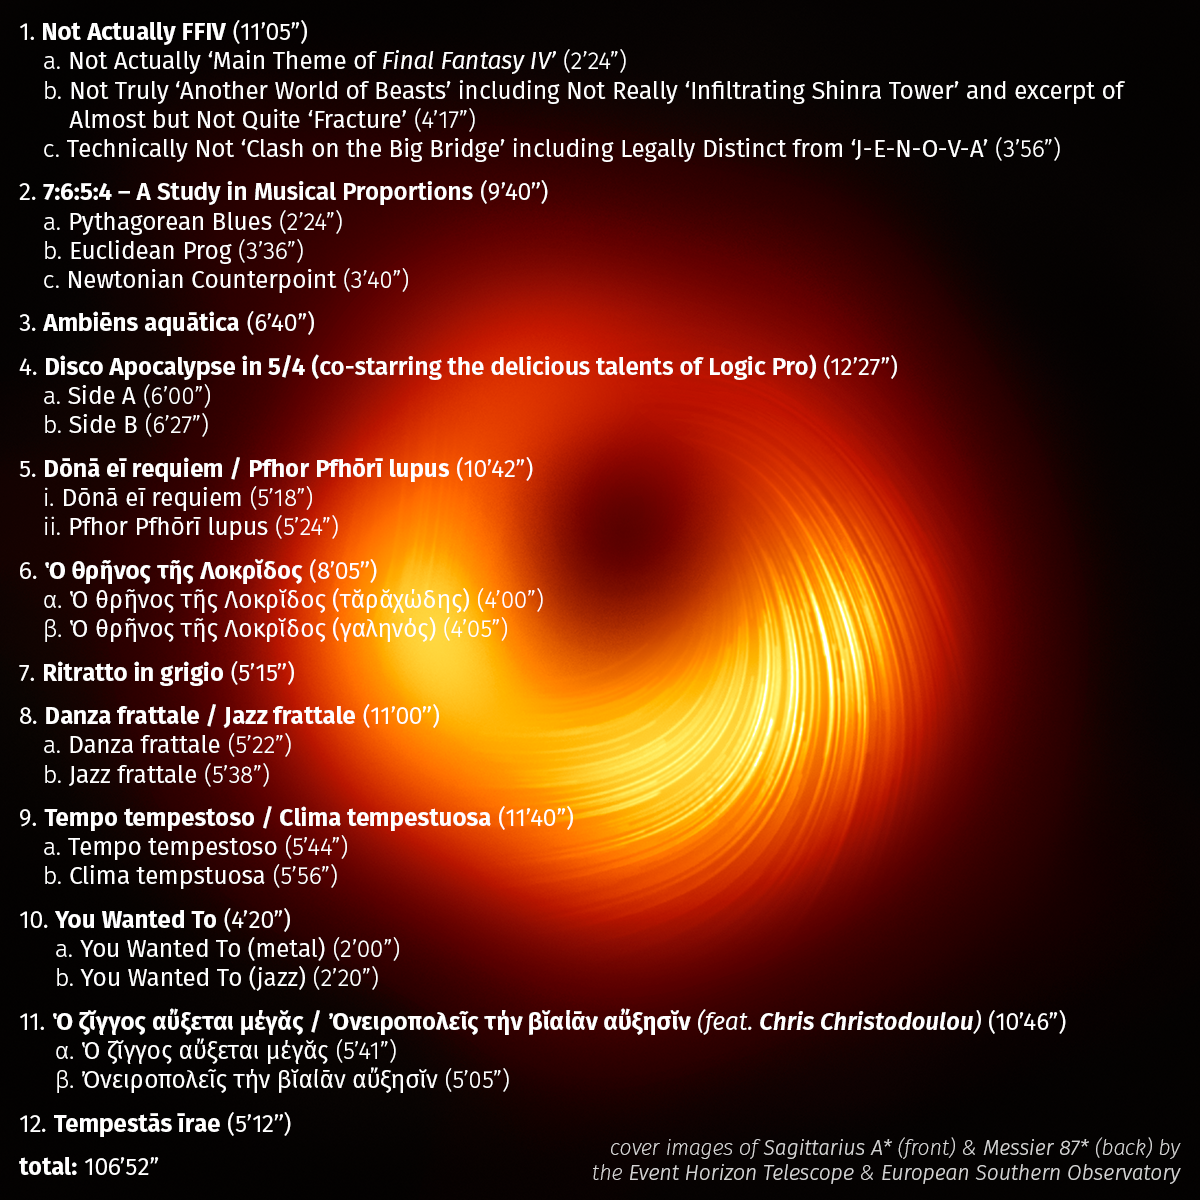
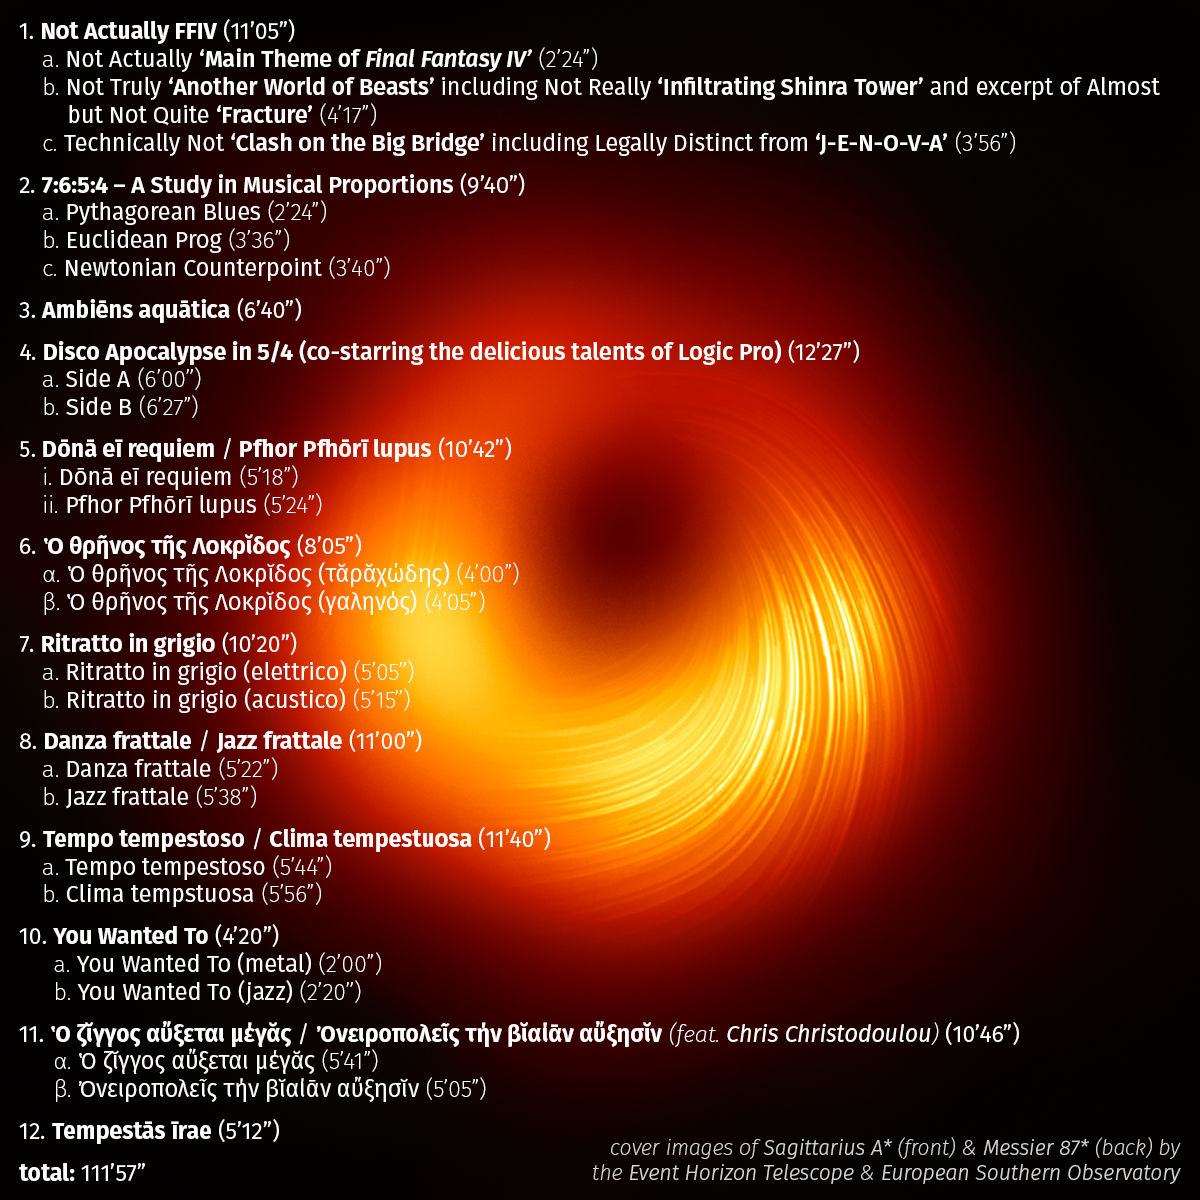
update compositions2023-2024notes.html and compositions2023-2024back.png

Changed region(s): [[0.0, 0.0, 0.9558, 0.9867]]

diff --git a/compositions2023-2024notes.html b/compositions2023-2024notes.html
@@ -135,7 +135,12 @@
 			<li><a href="#06b" class="noprintlink toc-counter weight4 dotted" title="ancient Greek for &ldquo;The Lament of Locris (peaceful)&rdquo; (romanized: &ldquo;Ho thr&ecirc;nos t&ecirc;s Lokr&iacute;dos (gal&emacr;n&oacute;s)&rdquo;)" lang="grc">&#8009; &theta;&rho;&#8134;&nu;&omicron;&varsigma; &tau;&#8134;&varsigma; &Lambda;&omicron;&kappa;&rho;&#x1FD0;&#x0301;&delta;&omicron;&varsigma;<span class="weight3"> (&gamma;&alpha;&lambda;&eta;&nu;&#972;&varsigma;)</span></a> <span class="green">(4:00-8:05)</span> <span class="orange">[DR14]</span></li>
 		</ol>
 	</li>
-	<li><a href="#07" class="noprintlink accent weight5 dotted" title="Italian for &ldquo;Portrait in Gray&rdquo;">Ritratto in grigio</a> <span class="green">(5:15)</span> <span class="orange">[DR17]</span></li>
+	<li><a href="#07" class="noprintlink accent weight5 dotted" title="Italian for &ldquo;Portrait in Gray&rdquo;">Ritratto in grigio</a> <span class="green">(10:20)</span> <span class="orange">[DR15]</span>
+		<ol class="loweralpha">
+			<li><a href="#07a" class="noprintlink accent weight5 dotted" title="Italian for &ldquo;Portrait in Gray (electric)&rdquo;" lang="it">Ritratto in grigio (elettrico)</a> <span class="green">(0:00-5:05)</span> <span class="orange">[DR16]</span></li>
+			<li><a href="#07b" class="noprintlink accent weight5 dotted" title="Italian for &ldquo;Portrait in Gray (acoustic)&rdquo;" lang="it">Ritratto in grigio (acustico)</a> <span class="green">(5:05-10:20)</span> <span class="orange">[DR15]</span></li>
+		</ol>
+	</li>
 	<li><a href="#08" class="noprintlink accent weight5"><span class="dotted" title="Italian for &ldquo;Fractal Dance&rdquo;">Danza frattale</span> / <span class="dotted" title="Italian for &ldquo;Fractal Jazz&rdquo;">Jazz frattale</span></a> <span class="green">(11:00)</span> <span class="orange">[DR17]</span>
 		<ol class="loweralpha">
 			<li><a href="#08a" class="noprintlink toc-counter weight4 dotted" title="Italian for &ldquo;Fractal Dance&rdquo;">Danza frattale</a> <span class="green">(0:00-5:22)</span> <span class="orange">[DR17]</span></li>
@@ -163,7 +168,7 @@
 	<li><a href="#12" class="noprintlink accent weight5 dotted" title="Latin for &ldquo;A Storm of Wrath&rdquo;" lang="la">Tempest&amacr;s &imacr;rae</a> <span class="green">(5:12)</span> <span class="orange">[DR13]</span></li>
 </ol>
 
-<div class="accent" style="margin-top: 16px; padding: 0px 20px;"><span class="dashed-vertical-borders" style="padding: 8px 10px;"><span class="weight5">Current total:</span> <span class="green">1:46:52</span> <span class="orange">[DR15]</span></span></div>
+<div class="accent" style="margin-top: 16px; padding: 0px 20px;"><span class="dashed-vertical-borders" style="padding: 8px 10px;"><span class="weight5">Current total:</span> <span class="green">1:51:57</span> <span class="orange">[DR15]</span></span></div>
 
 <p class="sectionbreak noprint"><a href="#top">Back to top</a> &middot; <a href="#tracklist">Tracklist</a> &middot; <a href="https://aaronfreed.github.io/discography.html">My discography</a> &middot; <a href="https://aaronfreed.github.io/portfolio.html">My portfolio</a> &middot; <a href="https://aaronfreed.github.io/aboutme.html">Contact me</a> &middot; <a href="https://aaronfreed.github.io">Website index</a></p>
 
@@ -602,7 +607,12 @@
 		<p class="sectionbreak noprint"><a href="#top">Back to top</a> &middot; <a href="#tracklist">Tracklist</a> &middot; <a href="https://aaronfreed.github.io/discography.html">My discography</a> &middot; <a href="https://aaronfreed.github.io/aboutme.html">Contact me</a> &middot; <a href="https://aaronfreed.github.io">Website index</a></p>
 	</li>
 
-	<li id="07"><a href="https://1drv.ms/u/s!AuD0MykSsmaRget-F1ShACfNt-UG7A?e=m3EeYF" target="_blank" class="accent weight5 underline songlink">Ritratto in grigio</a> <span class="green">(5:15)</span> <span class="orange">[DR17]</span>
+	<li id="07"><a href="https://1drv.ms/u/s!AuD0MykSsmaRget-F1ShACfNt-UG7A?e=m3EeYF" target="_blank" class="accent weight5 underline songlink">Ritratto in grigio</a> <span class="green">(10:20)</span> <span class="orange">[DR15]</span>
+
+		<ol class="shortmargin" style="font-size: 18px;">
+			<li id="07a"><span class="toc-counter weight4 dotted" title="Italian for &ldquo;Portrait in Gray (electric)&rdquo;" lang="it">Ritratto in grigio (elettrico)</span> <span class="green">(0:00-5:05)</span> <span class="orange">[DR16]</span></li>
+			<li id="07b"><span class="toc-counter weight4 dotted" title="Italian for &ldquo;Portrait in Gray (acoustic)&rdquo;" lang="la">Ritratto in grigio (acustico)</span> <span class="green">(5:05-10:20)</span> <span class="orange">[DR15]</span></li>
+		</ol>
 
 		<p class="fixheight toc-counter centred">composer: <span class="accent weight3">Aaron Freed</span>, 2024</p>
 
@@ -613,6 +623,8 @@
 		<p class="fixheight">The title (Italian for &ldquo;Portrait in Gray&rdquo;) is a pun on the Dorian mode by way of <span class="accent weight3">Oscar Wilde</span>&rsquo;s <em class="accent weight3">The Picture of Dorian Gray</em> &ndash; a sort of song title equivalent of Cockney rhyming slang.</p>
 
 		<p class="fixheight">I feel almost certain that I&rsquo;ll write at least one more movement of this track (perhaps preceding the first one, perhaps following the last), and I have absolutely no idea where it&rsquo;s going. I&rsquo;ve had it suggested to me to use an ABB&rsquo;A&rsquo; structure for this track, which I&rsquo;m currently contemplating; if I do so, it&rsquo;ll be entirely safe to wager money on me throwing in at least one brief reference to <span class="accent weight3">&ldquo;Mamma Mia!&rdquo;</span> or some other <span class="accent weight3">ABBA</span> banger. (<span class="toc-counter weight2">&ldquo;Mamma Mia!&rdquo;</span> is the likeliest due to its Italian title.)</p>
+		
+		<p class="fixheight">The acoustic movement is currently a very early work in progress and does not qualify as the B&rsquo;A&rsquo; section &ndash; it&rsquo;s an early attempt at the &ldquo;mission complete&rdquo; music.</p>
 
 		<p class="fixheight">I tentatively plan to use this track on the <em class="toc-counter weight2">Tempus Irae Redux</em> level <span class="accent weight3">&ldquo;Theatre of Pain&rdquo;</span>.</p>
 
